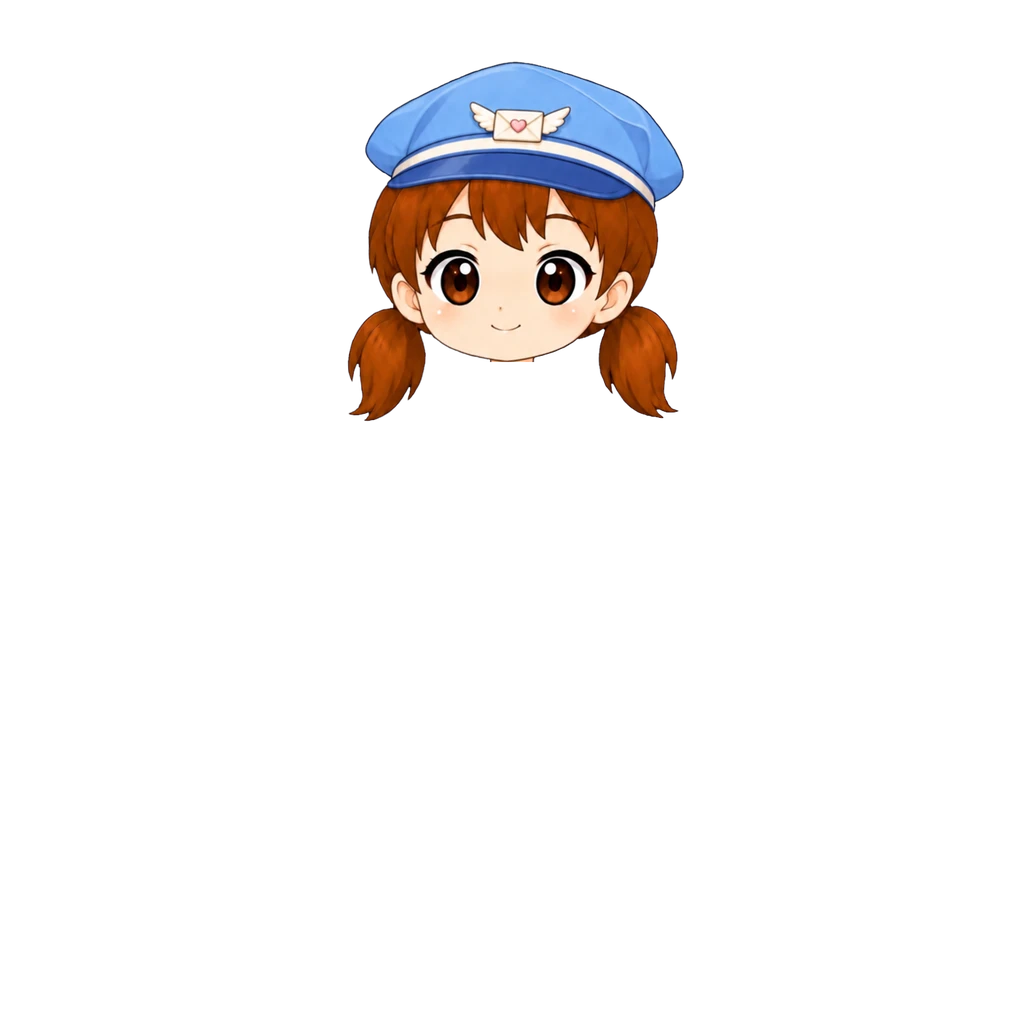
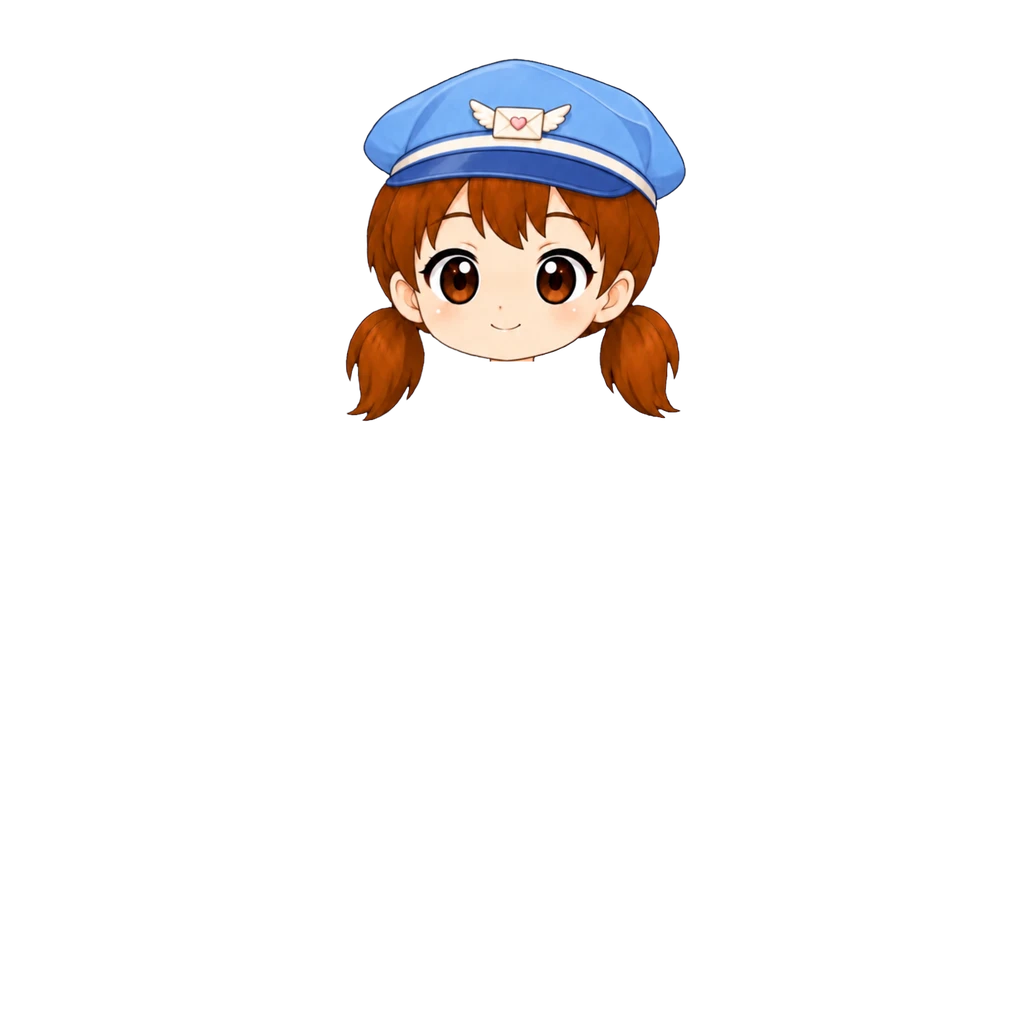
우편부 모자(여아) 1% 크게 (#877)
턱·얼굴 가운데 고정으로 배율 0.688→0.6949. img ?v=4.

Claude-Session: https://claude.ai/code/session_018maNuYqDfFyRSe9uKpZhPR

diff --git a/src/data/avatarEquipment.js b/src/data/avatarEquipment.js
@@ -228,8 +228,9 @@ export const AVATAR_CATALOG = [
      들꽃 머리띠와 같은 방식(hidesHead) — 얼굴 템플릿 매칭(일치 0.916)으로 배율 0.668, 원점 (351,68). 아래는 자르지 않음.
      탑재 상자 (351,68,678,418).
      [2026-10-04] 사용자 조정 — 3% 크게(배율 0.688, 턱 y345·얼굴 가운데 고정) 후 오른쪽으로 1, 원점 (347,60). 탑재 상자 (347,60,684,421). img ?v=2.
-     [2026-10-04] 아래로 1(원점 (347,61)). 탑재 상자 (347,61,684,422). img ?v=3. */
-  { id: "hat_post_girl",  slot: "hat",   label: "우편부 모자", emoji: "💌", price:DECOR_PRICE.rare, rarity: "rare", theme: "common", forGender: "girl", hidesHead: true, img: "assets/avatar/hat/post-cap-girl.webp?v=3", thumb: "assets/avatar/thumb/hat_post_girl.webp" },
+     [2026-10-04] 아래로 1(원점 (347,61)). 탑재 상자 (347,61,684,422). img ?v=3.
+     [2026-10-04] 1% 크게(배율 0.6949, 턱·얼굴 가운데 고정, 원점 (345,58)). 탑재 상자 (345,58,686,422). img ?v=4. */
+  { id: "hat_post_girl",  slot: "hat",   label: "우편부 모자", emoji: "💌", price:DECOR_PRICE.rare, rarity: "rare", theme: "common", forGender: "girl", hidesHead: true, img: "assets/avatar/hat/post-cap-girl.webp?v=4", thumb: "assets/avatar/thumb/hat_post_girl.webp" },
   /* 남아 사파리 모자 [2026-10-02] — 모자+얼굴 한 장(사용자 원화)이라 hidesHead: 쓰면 머리카락 머리 장이 빠지고
      민머리 위에 얹힌다(베이스 v10 구조). 얼굴(눈~입) 템플릿 매칭으로 맞춤(배율 0.4065 · 일치 0.970).
      원화에 달린 목은 z50 이라 높은 깃(우주복·후드·도토리)을 덮어서 기본 머리 장처럼 y404 에서 잘랐다. */

diff --git a/art-src/README.md b/art-src/README.md
@@ -605,4 +605,4 @@ bbox로 여백만 잘라내고 배포본은 높이 480px로 축소했다(전부 
 | lightning-cap-boy-src.webp | **번개 캡모자 원화 남아 — 모자+얼굴 한 장 (사용자 원화 2026-10-04)** — 589×500 투명 배경, 청록 캡(뒤로 쓴 챙·형광 번개). 사파리 모자처럼 hidesHead 로 기본 머리를 대신한다. 얼굴 템플릿 매칭(일치 0.956)으로 배율 0.644·원점 (336,76), y404 아래 자름. 탑재 상자 (336,76,715,398). **[2026-10-04 조정]** 아래로 1(원점 (336,77)) · img ?v=2. 다시 아래로 1(원점 (336,78)) · img ?v=3. 머리 3% 크게(배율 0.6633, 턱·가운데 고정, 원점 (331,68)) · img ?v=4. 다시 2% 크게(0.6766, 원점 (327,61)) · img ?v=5. 왼쪽 2·아래로 1(원점 (325,62)) · img ?v=6. 상점 그림은 원화를 세로 160px 로 | avatar/hat/lightning-cap-boy.webp · thumb/hat_cap_boy.webp |
 | summer-visor-boy-src.webp | **썸머 썬캡 원화 남아 — 모자+얼굴 한 장 (사용자 원화 2026-10-04)** — 520×456 투명 배경, 주황 썬캡(조개 장식). hidesHead 로 기본 머리를 대신한다. 얼굴 템플릿 매칭(일치 0.953)으로 배율 0.676·원점 (339,83), y404 아래 자름. 탑재 상자 (339,83,691,391). **[2026-10-04 조정]** 2% 크게(0.6895)·아래로 5, 원점 (335,82) · img ?v=2. 다시 아래로 3(원점 (335,85)) · img ?v=3. 상점 그림은 원화를 세로 160px 로 | avatar/hat/summer-visor-boy.webp · thumb/hat_visor_boy.webp |
 | pirate-hat-boy-src.webp | **해적 모자 원화 남아 — 모자+얼굴 한 장 (사용자 원화 2026-10-04)** — 574×475 투명 배경, 남색 삼각 해적모(금 테두리·해골). hidesHead 로 기본 머리를 대신한다. 얼굴 템플릿 매칭(일치 0.972)으로 배율 0.712·원점 (318,58), y404 아래 자름. 탑재 상자 (318,58,727,396). **[2026-10-04 조정]** 아래로 4·왼쪽 1(원점 (317,62)) · img ?v=2. 상점 그림은 원화를 세로 160px 로 | avatar/hat/pirate-hat-boy.webp · thumb/hat_pirate_boy.webp |
-| post-cap-girl-src.webp | **우편부 모자 원화 여아 — 모자+얼굴 한 장 (사용자 원화 2026-10-04)** — 파란 우편모(날개 편지 배지) + 얼굴·양갈래 머리. hidesHead 로 여아 기본 머리를 대신한다. 얼굴 템플릿 매칭(일치 0.916)으로 배율 0.668·원점 (351,68), 아래는 자르지 않음. 탑재 상자 (351,68,678,418). **[2026-10-04 조정]** 3% 크게(0.688)·오른쪽 1, 원점 (347,60) · img ?v=2. 아래로 1(원점 (347,61)) · img ?v=3. 상점 그림은 원화를 세로 160px 로 | avatar/hat/post-cap-girl.webp · thumb/hat_post_girl.webp |
+| post-cap-girl-src.webp | **우편부 모자 원화 여아 — 모자+얼굴 한 장 (사용자 원화 2026-10-04)** — 파란 우편모(날개 편지 배지) + 얼굴·양갈래 머리. hidesHead 로 여아 기본 머리를 대신한다. 얼굴 템플릿 매칭(일치 0.916)으로 배율 0.668·원점 (351,68), 아래는 자르지 않음. 탑재 상자 (351,68,678,418). **[2026-10-04 조정]** 3% 크게(0.688)·오른쪽 1, 원점 (347,60) · img ?v=2. 아래로 1(원점 (347,61)) · img ?v=3. 1% 크게(0.6949, 원점 (345,58)) · img ?v=4. 상점 그림은 원화를 세로 160px 로 | avatar/hat/post-cap-girl.webp · thumb/hat_post_girl.webp |
